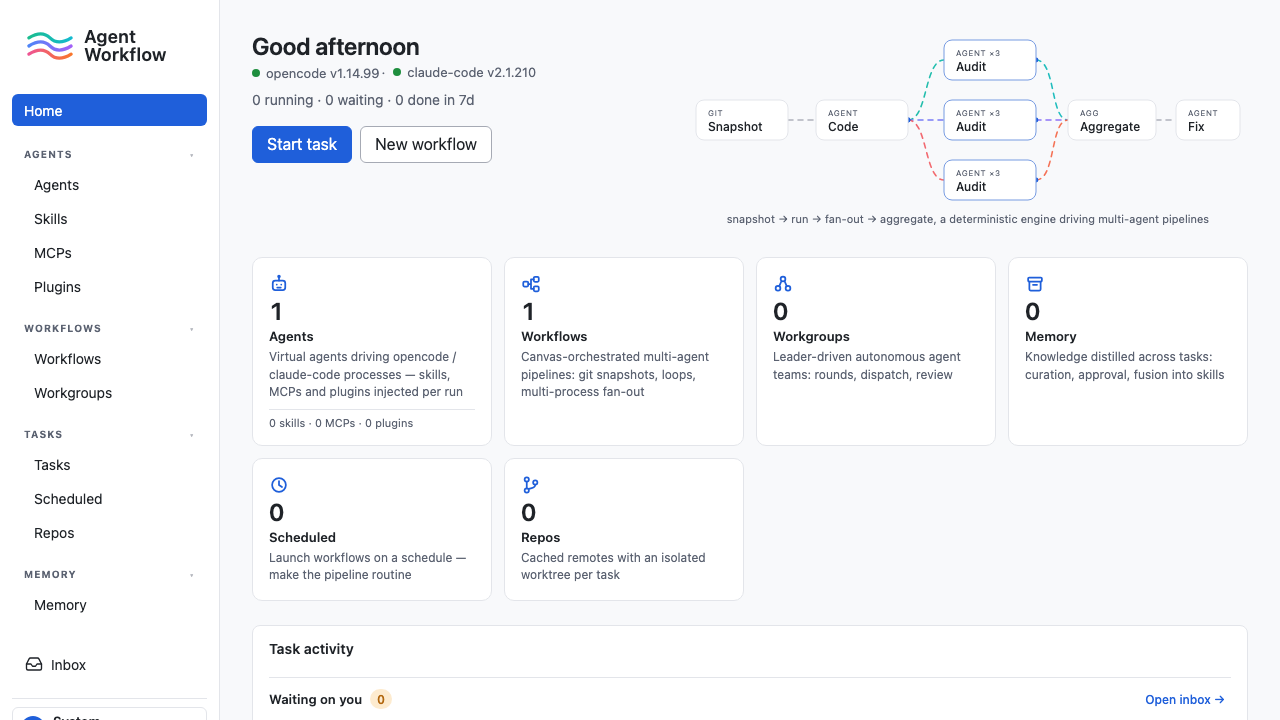
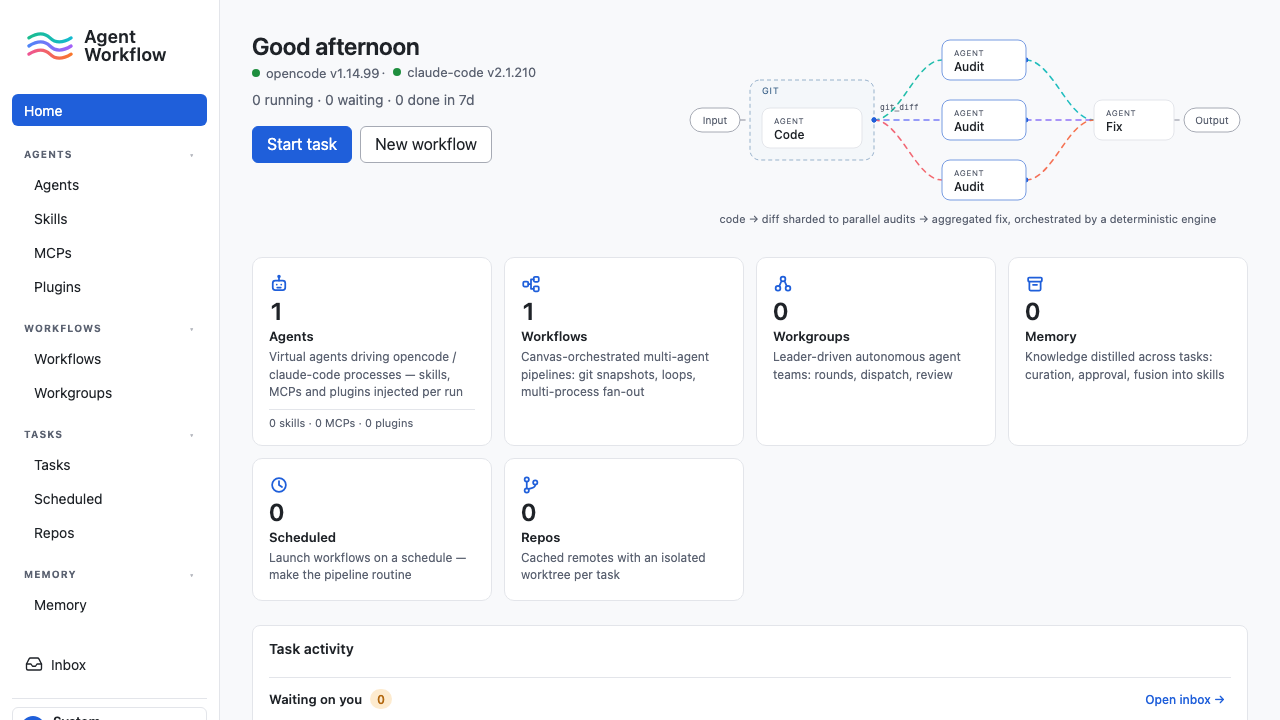
fix(home): RFC-190 验收修订——管线图重画为真实业务流
用户反馈「首页右上角那个图不是一个正常的业务流」，成立：初版把「快照」
「聚合」画成独立业务节点，但两者都是框架机制而非用户会在画布上摆的节点
（git wrapper 前后快照取 diff；多进程审计节点内建扇出+聚合）。

重画为画布同构的业务流（用户择「爆开三实例扇出」案）：
(输入) → ┊GIT wrapper[编码]┊ —git_diff→ [审计]×3 → 扇入直进[修复] → (输出)
- GIT wrapper 用编辑器同款蓝虚线容器色系（.canvas-node--wrapper-group--git），
  静态不参与流动动画（容器是归属不是流）；
- git_diff 作为端口名标注在扇出起点（唯一值得点名的机制——审计消费的产物）；
- 输入/输出为画布 IO 节点微缩药丸；三审计 kind 复归 AGENT（去 ×3 冗余）。

i18n：pipeline.snapshot/aggregate 删除，新增 input/output，caption 改述
「编码取 diff → 分片并行审计 → 聚合修复」机制语义（三处同改）。
测试：pipeline-hero 拓扑用例重写——锁伪节点不得复活（快照/聚合断言
false）+ wrapper 框/GIT 标签/git_diff 端口/IO 药丸/三 live 审计全要素。
基线：homepage/onboarding darwin 已随刷；linux 待 workflow_dispatch
artifact 回填（Option B，后续提交）。
文档：design.md §3.3 修订 v3、proposal G2、STATE.md 勘误段。

diff --git a/packages/frontend/src/components/home/PipelineHero.tsx b/packages/frontend/src/components/home/PipelineHero.tsx
@@ -1,16 +1,24 @@
-// RFC-190 — the homepage hero's animated mini-pipeline: the platform's core
-// abstraction (git snapshot → code → audit ×3 fan-out → aggregate → fix)
-// drawn as a small workflow canvas. Pure hand-written SVG + CSS animation
-// (zero dependencies); node chrome echoes `.canvas-node` (panel bg / 1px
-// border / 8px radius / uppercase kind label) so the hero visually rhymes
-// with the workflow editor.
+// RFC-190 — the homepage hero's animated mini-pipeline, drawn as a REAL
+// business flow (acceptance revision: the first cut showed "snapshot" and
+// "aggregate" as standalone steps, but both are framework mechanics, not
+// business nodes — the git wrapper CONTAINS the coder and yields git_diff
+// from its before/after snapshots, and a multi-process node aggregates its
+// own fan-out internally):
 //
-// - Fan-out edges carry the three brand gradients (stop values copied from
-//   the sidebar logo, __root.tsx). Gradient ids are `aw-pipe-*` — the
+//   [input] → ┊GIT wrapper [code]┊ —git_diff→ audit ×3 (exploded fan-out)
+//           → fix (fan-in lands directly; aggregation is implicit) → [output]
+//
+// Pure hand-written SVG + CSS animation (zero dependencies); node chrome
+// echoes `.canvas-node`, the GIT wrapper echoes the editor's dashed blue
+// `.canvas-node--wrapper-group--git` container, IO pills echo the canvas IO
+// nodes — the hero rhymes with what users actually build on the canvas.
+//
+// - Fan edges carry the three brand gradients (stop values copied from the
+//   sidebar logo, __root.tsx). Gradient ids are `aw-pipe-*` — the
 //   `aw-stream-*` ids are source-locked to __root.tsx and duplicating DOM
 //   ids would be invalid (design.md §1).
-// - All motion lives in styles.css under `.pipeline-hero__edge` /
-//   `__dot` / `__node--live` and is disabled per-selector under
+// - All motion lives in styles.css under `.pipeline-hero__edge` / `__dot` /
+//   `__node--live` and is disabled per-selector under
 //   `prefers-reduced-motion: reduce` (repo idiom).
 // - The SVG is decorative: aria-hidden, with the wrapping <Link> carrying
 //   the accessible name (a11y gate on `/`).
@@ -26,21 +34,21 @@ const PIPE_GRADIENTS = [
   { id: 'aw-pipe-c', from: '#ec4899', to: '#f97316' },
 ] as const
 
-// Edge paths (SVG user units). Fan-out (code → audits) and fan-in
-// (audits → aggregate) reuse these for both the stroke and the dot motion.
+// Edge paths (SVG user units). The fan-out (wrapper's git_diff → audits) and
+// fan-in (audits → fix) reuse these for both the stroke and the dot motion.
 const EDGE_TRUNK: string[] = [
-  'M 100 88 H 128', // snapshot → code
-  'M 468 88 H 488', // aggregate → fix
+  'M 52 88 H 62', // input → git wrapper
+  'M 486 88 H 496', // fix → output
 ]
 const EDGE_FAN_OUT = [
-  'M 220 88 C 240 88, 236 28, 256 28',
-  'M 220 88 H 256',
-  'M 220 88 C 240 88, 236 148, 256 148',
+  'M 186 88 C 212 88, 228 28, 254 28',
+  'M 186 88 H 254',
+  'M 186 88 C 212 88, 228 148, 254 148',
 ] as const
 const EDGE_FAN_IN = [
-  'M 348 28 C 368 28, 362 88, 380 88',
-  'M 348 88 H 380',
-  'M 348 148 C 368 148, 362 88, 380 88',
+  'M 338 28 C 364 28, 380 88, 406 88',
+  'M 338 88 H 406',
+  'M 338 148 C 364 148, 380 88, 406 88',
 ] as const
 
 interface NodeSpec {
@@ -73,16 +81,26 @@ function PipelineNode({ node }: { node: NodeSpec }): ReactElement {
   )
 }
 
+/** Small IO pill — the canvas input/output node, miniaturized. */
+function IoPill({ x, w, label }: { x: number; w: number; label: string }): ReactElement {
+  return (
+    <g className="pipeline-hero__io">
+      <rect className="pipeline-hero__io-box" x={x} y={76} width={w} height={24} rx={12} />
+      <text className="pipeline-hero__io-text" x={x + w / 2} y={92} textAnchor="middle">
+        {label}
+      </text>
+    </g>
+  )
+}
+
 export function PipelineHero(): ReactElement {
   const { t } = useTranslation()
-  const nodes: NodeSpec[] = [
-    { x: 8, y: 68, w: 92, kind: 'GIT', label: t('home.pipeline.snapshot') },
-    { x: 128, y: 68, w: 92, kind: 'AGENT', label: t('home.pipeline.code') },
-    { x: 256, y: 8, w: 92, kind: 'AGENT ×3', label: t('home.pipeline.audit'), live: true },
-    { x: 256, y: 68, w: 92, kind: 'AGENT ×3', label: t('home.pipeline.audit'), live: true },
-    { x: 256, y: 128, w: 92, kind: 'AGENT ×3', label: t('home.pipeline.audit'), live: true },
-    { x: 380, y: 68, w: 88, kind: 'AGG', label: t('home.pipeline.aggregate') },
-    { x: 488, y: 68, w: 64, kind: 'AGENT', label: t('home.pipeline.fix') },
+  const agentNodes: NodeSpec[] = [
+    { x: 74, y: 76, w: 100, kind: 'AGENT', label: t('home.pipeline.code') },
+    { x: 254, y: 8, w: 84, kind: 'AGENT', label: t('home.pipeline.audit'), live: true },
+    { x: 254, y: 68, w: 84, kind: 'AGENT', label: t('home.pipeline.audit'), live: true },
+    { x: 254, y: 128, w: 84, kind: 'AGENT', label: t('home.pipeline.audit'), live: true },
+    { x: 406, y: 68, w: 80, kind: 'AGENT', label: t('home.pipeline.fix') },
   ]
   return (
     <Link
@@ -113,6 +131,19 @@ export function PipelineHero(): ReactElement {
             </linearGradient>
           ))}
         </defs>
+        {/* GIT wrapper container around the coder — before/after snapshots
+            live HERE (the editor's dashed blue wrapper-group, miniaturized). */}
+        <rect
+          className="pipeline-hero__wrapper-box"
+          x={62}
+          y={48}
+          width={124}
+          height={80}
+          rx={10}
+        />
+        <text className="pipeline-hero__wrapper-label" x={74} y={62}>
+          GIT
+        </text>
         {EDGE_TRUNK.map((d) => (
           <path key={d} className="pipeline-hero__edge pipeline-hero__edge--trunk" d={d} />
         ))}
@@ -132,6 +163,11 @@ export function PipelineHero(): ReactElement {
             stroke={`url(#${PIPE_GRADIENTS[i]!.id})`}
           />
         ))}
+        {/* The wrapper's output port name — the one piece of mechanism worth
+            naming, because it IS the artifact the audits consume. */}
+        <text className="pipeline-hero__edge-label" x={192} y={78}>
+          git_diff
+        </text>
         {[...EDGE_FAN_OUT, ...EDGE_FAN_IN].map((d) => (
           <circle
             key={`dot-${d}`}
@@ -140,7 +176,9 @@ export function PipelineHero(): ReactElement {
             style={{ offsetPath: `path('${d}')` }}
           />
         ))}
-        {nodes.map((node, i) => (
+        <IoPill x={2} w={50} label={t('home.pipeline.input')} />
+        <IoPill x={496} w={56} label={t('home.pipeline.output')} />
+        {agentNodes.map((node, i) => (
           <PipelineNode key={i} node={node} />
         ))}
       </svg>

diff --git a/packages/frontend/src/styles.css b/packages/frontend/src/styles.css
@@ -2091,6 +2091,43 @@ code {
   font-family: inherit;
 }
 
+/* GIT wrapper container — same hue family as the editor's
+ * .canvas-node--wrapper-group--git (dashed blue, tinted fill). Static:
+ * containers are membership, not flow, so no marching animation. */
+.pipeline-hero__wrapper-box {
+  fill: color-mix(in srgb, #4a78a6 6%, var(--panel));
+  stroke: color-mix(in srgb, #4a78a6 55%, transparent);
+  stroke-width: 1;
+  stroke-dasharray: 4 3;
+}
+
+.pipeline-hero__wrapper-label {
+  fill: color-mix(in srgb, #4a78a6 80%, var(--text));
+  font-size: 9px;
+  letter-spacing: 0.08em;
+  font-family: inherit;
+}
+
+/* IO pills — the canvas input/output nodes, miniaturized. */
+.pipeline-hero__io-box {
+  fill: var(--panel);
+  stroke: var(--border-strong);
+  stroke-width: 1;
+}
+
+.pipeline-hero__io-text {
+  fill: var(--muted);
+  font-size: 10px;
+  font-family: inherit;
+}
+
+/* Port-name tag on the fan-out (the wrapper's git_diff output). */
+.pipeline-hero__edge-label {
+  fill: var(--muted);
+  font-size: 8px;
+  font-family: ui-monospace, SFMono-Regular, Menlo, monospace;
+}
+
 .pipeline-hero__edge {
   fill: none;
   stroke-width: 1.6;

diff --git a/packages/frontend/tests/pipeline-hero.test.tsx b/packages/frontend/tests/pipeline-hero.test.tsx
@@ -67,13 +67,27 @@ describe('RFC-190 PipelineHero', () => {
     expect(html).not.toContain('aw-stream-')
   })
 
-  test('topology includes the aggregate stage between audits and fix', () => {
+  test('topology is a REAL business flow: IO pills + GIT wrapper + fan-in straight into fix', () => {
+    // Acceptance revision (user: "右上角那个图不是一个正常的业务流"):
+    // snapshot/aggregate are framework MECHANICS, not business nodes — the
+    // git wrapper contains the coder and yields git_diff; the multi-process
+    // audit aggregates internally. This test locks the corrected shape so
+    // the pseudo-nodes can't sneak back in.
     const { container } = render(<PipelineHero />)
     const labels = Array.from(container.querySelectorAll('text')).map((t) => t.textContent ?? '')
     // zh default locale in tests; accept either bundle to stay locale-proof.
-    expect(labels.some((l) => /聚合|Aggregate/.test(l))).toBe(true)
+    expect(labels.some((l) => /快照|Snapshot/.test(l))).toBe(false)
+    expect(labels.some((l) => /聚合|Aggregate/.test(l))).toBe(false)
+    expect(labels.some((l) => /输入|Input/.test(l))).toBe(true)
+    expect(labels.some((l) => /输出|Output/.test(l))).toBe(true)
+    expect(labels.some((l) => /编码|Code/.test(l))).toBe(true)
     expect(labels.some((l) => /修复|Fix/.test(l))).toBe(true)
-    // three audit nodes (the fan-out), each marked live/breathing
+    // the GIT wrapper container (editor's dashed wrapper-group, miniaturized)
+    expect(container.querySelector('.pipeline-hero__wrapper-box')).toBeTruthy()
+    expect(labels.some((l) => l === 'GIT')).toBe(true)
+    // the wrapper's output port feeding the fan-out
+    expect(labels.some((l) => l === 'git_diff')).toBe(true)
+    // three exploded audit instances (the fan-out), each live/breathing
     const live = container.querySelectorAll('.pipeline-hero__node--live')
     expect(live.length).toBe(3)
   })

diff --git a/packages/frontend/src/i18n/zh-CN.ts b/packages/frontend/src/i18n/zh-CN.ts
@@ -105,12 +105,15 @@ export interface Resources {
       relativeDayAgo: string
     }
     // RFC-190：能力门户首页——管线 hero / 脉搏行 / 能力卡片 / 任务动态。
+    // 验收修订：管线图按真实业务流重画——快照/聚合是框架机制不是业务节点
+    // （git wrapper 容器取 diff、多进程节点内建聚合），改为输入/输出 IO 节点
+    // + GIT wrapper 框内编码 + 三审计扇入直进修复。
     pipeline: {
-      snapshot: string
+      input: string
       code: string
       audit: string
-      aggregate: string
       fix: string
+      output: string
       caption: string
       open: string
     }
@@ -3085,12 +3088,12 @@ export const zhCN: Resources = {
     },
     // RFC-190：能力门户首页。
     pipeline: {
-      snapshot: '快照',
+      input: '输入',
       code: '编码',
       audit: '审计',
-      aggregate: '聚合',
       fix: '修复',
-      caption: '快照 → 执行 → 扇出 → 聚合，确定性引擎驱动的多代理流水线',
+      output: '输出',
+      caption: '编码取 diff → 分片并行审计 → 聚合修复，确定性引擎全程编排',
       open: '打开工作流列表',
     },
     pulse: {

diff --git a/packages/frontend/src/i18n/en-US.ts b/packages/frontend/src/i18n/en-US.ts
@@ -98,13 +98,13 @@ export const enUS: Resources = {
     },
     // RFC-190: capability-portal homepage.
     pipeline: {
-      snapshot: 'Snapshot',
+      input: 'Input',
       code: 'Code',
       audit: 'Audit',
-      aggregate: 'Aggregate',
       fix: 'Fix',
+      output: 'Output',
       caption:
-        'snapshot → run → fan-out → aggregate, a deterministic engine driving multi-agent pipelines',
+        'code → diff sharded to parallel audits → aggregated fix, orchestrated by a deterministic engine',
       open: 'Open workflows',
     },
     pulse: {

diff --git a/design/RFC-190-homepage-capability-portal/design.md b/design/RFC-190-homepage-capability-portal/design.md
@@ -122,12 +122,12 @@ export const OverviewResponseSchema = z.object({
 ### 3.3 PipelineHero（平台特点视觉）
 
 - `components/home/PipelineHero.tsx`，纯手写 SVG（零依赖），`.pipeline-hero` 命名空间；外层 `<Link to="/workflows" aria-label={t('home.pipeline.open')}>`，`<svg aria-hidden="true">`。
-- 拓扑与平台核心抽象**逐段对齐**（设计门 P1-8；`CLAUDE.md` Code→Audit→Fix：审计结果先聚合再进 fixer；fan-out aggregator 现实见 `scheduler.ts` aggregator 收集 shard 输出）：`[git 快照] → [编码] ⇉ [审计]×3（扇出）→ [聚合] → [修复]`。聚合画为小型汇合节点（kind 标 `AGG`），三条审计边扇入其左侧。
-- 节点视觉呼应画布 `.canvas-node`（`styles.css:4667-4707`：`var(--panel)` 底、`var(--border)` 1px、radius 8、uppercase kind 小标 + 标题），kind 标示 `GIT / AGENT / AGENT ×3 / AGG / AGENT`。
+- 拓扑（**验收修订 v3**，用户反馈「右上角图不是正常业务流」）：初版把「快照」「聚合」画成独立业务节点系语义错误——两者都是框架机制而非用户会摆的节点（git wrapper 前后快照取 diff、多进程节点内建聚合，`CLAUDE.md`/proposal §5.2/§4.5）。修正为真实画布同构的业务流：`(输入) → ┊GIT wrapper[编码]┊ —git_diff→ [审计]×3（爆开三实例扇出，用户择案）→ 扇入直进 [修复] → (输出)`；wrapper 画为编辑器同款蓝虚线容器（`.canvas-node--wrapper-group--git` 色系，静态不参与流动动画），`git_diff` 作为端口名标注在扇出起点（唯一值得点名的机制——它就是审计消费的产物），输入/输出为画布 IO 节点微缩药丸。测试锁死伪节点不得复活（快照/聚合文案断言为 false）。
+- 节点视觉呼应画布 `.canvas-node`（`styles.css:4667-4707`：`var(--panel)` 底、`var(--border)` 1px、radius 8、uppercase kind 小标 + 标题），agent 节点 kind 一律 `AGENT`。
 - 三条扇出边分别用品牌三渐变色（stop 值复制 `__root.tsx:87-119`：`#10b981→#06b6d4`、`#3b82f6→#a855f7`、`#ec4899→#f97316`），渐变 id `aw-pipe-a/b/c`（避免与源级锁的 `aw-stream-*` 撞 id）；干线边用 `var(--border-strong)`。
 - 动画（纯 CSS，三套 selector 单列便于测试锁）：①`.pipeline-hero__edge`：`stroke-dasharray`+`stroke-dashoffset` 匀速行进；②`.pipeline-hero__dot`：光点 `<circle>` 走 CSS `offset-path: path('…')` 循环；③`.pipeline-hero__node--live`：审计组呼吸。**三者均在 `@media (prefers-reduced-motion: reduce)` 内逐 selector `animation: none`**（仓内 idiom：`styles.css:5192-5200`/`5233-5242`；测试锁到 selector 粒度，设计门 P2-3）。
 - 主题：全部用 token（`--panel/--border/--text/--muted/--accent`），`data-theme` 级联自动适配暗色；渐变 stop 为品牌常量、双主题同值（与侧栏 logo 同理）。
-- 节点文字 `<text>` 用 i18n（`home.pipeline.snapshot/code/audit/aggregate/fix`）；SVG 下方一行 caption（`home.pipeline.caption`，muted）。
+- 节点文字 `<text>` 用 i18n（`home.pipeline.input/code/audit/fix/output`；kind 标签 `GIT`/`AGENT` 与端口名 `git_diff` 为代码级标识不入 i18n）；SVG 下方一行 caption（`home.pipeline.caption`，muted，说明「取 diff → 分片并行审计 → 聚合修复」的机制语义）。
 - 响应式：hero 右列 `min-width` 不足（<~900px 容器）时管线换行至问候语下方；`viewBox` 等比缩放。
 - e2e 视觉回归以 `animations:'disabled'` 截图，CSS 动画被冻结，基线稳定。
 

diff --git a/STATE.md b/STATE.md
@@ -6,7 +6,7 @@
 
 ✅ **已完成 RFC（2026-07-15，用户批准方案 A 后当日实现）：[RFC-191 定义资源列表画廊化](design/RFC-191-resource-list-gallery/proposal.md) + [RFC-192 运行记录列手术](design/RFC-192-run-record-list-surgery/proposal.md)**。源自用户「调研工作流/工作组/任务/定时任务列表表现形式」→ 调研报告（现状复现+方案渲染 artifact）→ 拍板方案 A + D2-D5。RFC-191=`da654f32`+折入 `6adff67f`：工作流/工作组卡片画廊（`ResourceGalleryPage`/`GalleryCard` 公共组件、stretched-link、启动深链〔工作组按 `workgroupLaunchReadiness` 门禁〕、删除收敛详情层、`<RelativeTime>`+`useNowTick` 原语、`ResourceNameCell` 退役）；RFC-192=`f168406d`+折入 `da66f080`：任务表状态前置+脉冲/错误折行〔仅 failed〕/`repoCount`·`scheduledTaskId` 接线/耗时列/`limit=500`/三维过滤/整行可点（`shouldRowNavigate` 守卫，修 Cmd-click 双导航），定时任务 Switch 启停/最近触发三合一〔任务链接仅 launched——`recordFailure` 不写 `lastTaskId`〕/连挂 ×N/立即运行两击，repos 时间相对化；顺带修 `.segmented__option` 竖排。两轮 Codex 实现门（5P2 / 2P2+1P3）全折；空态视觉基线零 churn；五门+binary smoke 全绿。
 
-✅ **已完成 RFC（2026-07-15）：[RFC-190 首页能力门户改版](design/RFC-190-homepage-capability-portal/proposal.md)**。用户需求「首页要有平台特点、直观体现平台能力」，四项取向问答对齐（能力门户 / 动态管线 hero / 新增聚合端点 / Onboarding 一起翻新）。落地＝`de632aae`（主体）+ `3458d5bf`（实现门 P2）+ `ed375910`（e2e 适配）：后端 `GET /api/overview`（六 ACL 资源 filterVisibleRows 计数、口径 oracle 锁「==列表行数」逐 actor；tasks 权限真值表 read:all→全量/read:own→mine/皆无→null；可注入时钟 7d 窗口；`countCachedRepos` 避 1+N；`canViewScheduledTask`/`taskVisibilityCondition` 抽单源；contract registry 登记）+ 前端 hero（脉搏行 + PipelineHero 纯 SVG/CSS 管线「快照→编码→审计×3→聚合→修复」，品牌渐变 aw-pipe-*、reduce-motion 逐 selector 关断源级锁）+ 六能力卡（公共 Card 最小扩展 to/search Link 根；记忆卡深链 `/memory?tab=all`〔路由新增 tab validateSearch，保留 focus 透传，清空回落默认——实现门 P2〕）+ TaskFeed 单卡三子分组（全部 RFC-032 testid/顺序/收件箱按钮锁保留）+ Onboarding 翻新（hero+intro 网格，四步/导入锁不动）。设计门 Codex 0P0/9P1/6P2 全折入（处置表 design.md §8：含「旧 homepage 视觉基线实为 Onboarding」读图实锤→e2e visual/a11y 拆两用例、基线归位 darwin+linux〔linux 走 Option B artifact〕）；实现门 Codex 1P1+1P2 全折。多人树交织：i18n/styles.css hunks 随 RFC-191 `da654f32` 混文件入库；`main.spec.ts` happy path 被 RFC-191 画廊化打红（CI ee02c70e），已按卡片标题链接契约适配（`ed375910`，测试性修复）；agents 视觉基线漂移属 RFC-191 留其归属 session。验证：detached worktree 固定 commit 全量后端 5575 pass/前端 3777 全绿 + binary smoke + Chrome 实景 light/dark/窄屏三态自查。
+✅ **已完成 RFC（2026-07-15）：[RFC-190 首页能力门户改版](design/RFC-190-homepage-capability-portal/proposal.md)**。用户需求「首页要有平台特点、直观体现平台能力」，四项取向问答对齐（能力门户 / 动态管线 hero / 新增聚合端点 / Onboarding 一起翻新）。落地＝`de632aae`（主体）+ `3458d5bf`（实现门 P2）+ `ed375910`（e2e 适配）：后端 `GET /api/overview`（六 ACL 资源 filterVisibleRows 计数、口径 oracle 锁「==列表行数」逐 actor；tasks 权限真值表 read:all→全量/read:own→mine/皆无→null；可注入时钟 7d 窗口；`countCachedRepos` 避 1+N；`canViewScheduledTask`/`taskVisibilityCondition` 抽单源；contract registry 登记）+ 前端 hero（脉搏行 + PipelineHero 纯 SVG/CSS 管线「快照→编码→审计×3→聚合→修复」，品牌渐变 aw-pipe-*、reduce-motion 逐 selector 关断源级锁）+ 六能力卡（公共 Card 最小扩展 to/search Link 根；记忆卡深链 `/memory?tab=all`〔路由新增 tab validateSearch，保留 focus 透传，清空回落默认——实现门 P2〕）+ TaskFeed 单卡三子分组（全部 RFC-032 testid/顺序/收件箱按钮锁保留）+ Onboarding 翻新（hero+intro 网格，四步/导入锁不动）。设计门 Codex 0P0/9P1/6P2 全折入（处置表 design.md §8：含「旧 homepage 视觉基线实为 Onboarding」读图实锤→e2e visual/a11y 拆两用例、基线归位 darwin+linux〔linux 走 Option B artifact〕）；实现门 Codex 1P1+1P2 全折。多人树交织：i18n/styles.css hunks 随 RFC-191 `da654f32` 混文件入库；`main.spec.ts` happy path 被 RFC-191 画廊化打红（CI ee02c70e），已按卡片标题链接契约适配（`ed375910`，测试性修复）；agents 视觉基线漂移属 RFC-191 留其归属 session。验证：detached worktree 固定 commit 全量后端 5575 pass/前端 3777 全绿 + binary smoke + Chrome 实景 light/dark/窄屏三态自查。**验收修订 v3（同日，用户反馈「右上角图不是正常业务流」）**：初版管线把快照/聚合画成独立节点系语义错误（皆为框架机制：git wrapper 前后快照取 diff、多进程节点内建聚合）——重画为画布同构业务流 `(输入)→GIT wrapper[编码]—git_diff→审计×3 爆开扇出→扇入直进[修复]→(输出)`（用户择「爆开三实例」案），wrapper 用编辑器同款蓝虚线容器色系、`git_diff` 端口名标注扇出起点、IO 药丸微缩；i18n snapshot/aggregate 键删除换 input/output、caption 改述机制语义；测试锁伪节点不得复活（快照/聚合断言 false）+ wrapper/端口/IO 全要素断言；双基线（darwin 本地 / linux Option B artifact）随刷。
 
 ✅ **已完成 RFC（2026-07-15，用户 /goal「自主完成所有待完成重构」授权实施）：[RFC-188 抽取「一次隔离 agent 执行」单原语](design/RFC-188-isolated-agent-run-primitive/proposal.md) + [RFC-189 轮序数 vs 重试数上游语义拆分](design/RFC-189-round-vs-retry-split/proposal.md)**。源自调度执行架构全面审视（2026-07-14，五路并行深读）：两套引擎「任务生命周期统一、主循环同构（DB 权威 + 纯函数前沿 + Promise.race）、深层基元真共享」，风险集中在装配层——①「iso→冻结→runNode→merge-back」序列 scheduler.ts 手抄 5 处（RFC-184/186/187 历次 bug 皆此层泄漏）→ RFC-188 收编为 `runIsolatedAgent`+`mergeBackAndSettle`，行为保持 + golden 对照 + 源级 allowlist；② `retry_index` 两义（已爆 `d1248df4` 前端误标、轮账本三次排除法打补丁）→ RFC-189 新列 `wg_round` + retry_index 回归纯 attempt + `max()` 单调口径 + CTE backfill 互 oracle。实现顺序 188 → 189，且等 RFC-187 PR-3 余项（并发 session）落定再动 workgroupRunner。实施落地：RFC-188=`b6f43dd6`（T1 逐行核实证伪 monolithic 原稿——主线 iso 跨重试环 D17/shard+agg 双信号量/hook merge 抛错三态处置，收敛四原语 mergeBackAndSettle/createIsoUnderLock/persistIso* 搬家/markMergeFailed，五站点+replay 收编，裸原语只剩 wrapper 路径 allowlist 锁，golden 76 例零改动+全量 5510/0+binary smoke）；RFC-189=migration 0095（journal 94→95，lw 窗口回填互 oracle+wa.round 权威覆盖）+ 三 mint 打戳（协议重试同轮、retryIndex 回归 attempt、gate 行带轮不推进、领养行 stampWgRound 就地补戳）+ countRoundsUsed 混合口径（max+NULL 尾巴）+ wire/抽屉轮标签；实施勘误＝fc 免疫（并发 mint 序数必重复→fc 保持计数制）+ displayRetryForRun 保留（回填旧行 retryIndex 仍旧混合值、两时代行上不可分辨——d1248df4 不复活）。设计门（Codex rescue 作业中途蒸发，按 stall-salvage 备忘抢救）发现与实现独立折入项逐项一致、无未处理项。同批已直落（本 session，RFC-187 分工内）：T5a fan-out 逐路径救回（`buildSalvageTree`/`salvagedPaths` + human-replay P1-9 契约修复 + 真子进程 e2e `rfc187-fanout-salvage-e2e`）、T6 TRAP-1 启动护栏（readiness `warnings` advisory 层 + banner + i18n）、失败横幅跳转按钮工作组落空修复（`canOfferFailedJump`，`fcd6e34d`）、clarify-forbidden 结构化路由（lateSuppress 补 `failureCode`，删 startsWith）、重试预算四点单源（`DEFAULT_PROTOCOL_RETRY_BUDGET`）。
 

diff --git a/design/RFC-190-homepage-capability-portal/proposal.md b/design/RFC-190-homepage-capability-portal/proposal.md
@@ -15,7 +15,7 @@
 ## 2、目标
 
 - **G1 能力门户形态**：首页主体改为**能力卡片矩阵**——代理（含技能 / MCP / 插件子计数）、工作流、工作组、记忆、定时任务、仓库六张卡，每张含实时计数 + 一句能力描述 + 点击跳转对应列表页，构成平台能力地图。
-- **G2 动态管线 hero**：顶部 hero 用纯 SVG/CSS 动画渲染一幅迷你工作流管线（git 快照 → 编码 → 审计 ×3 扇出 → **聚合** → 修复，与平台真实 Code→Audit→Fix 数据流一致：审计产物先聚合再进修复），连线上有流动光点、节点微呼吸——把平台核心抽象「record → run → fan-out → aggregate」直观画在首页上。保留问候语、运行时状态行与「启动任务」主行动。
+- **G2 动态管线 hero**：顶部 hero 用纯 SVG/CSS 动画渲染一幅迷你工作流管线（验收修订 v3：`(输入) → GIT wrapper[编码] —git_diff→ 审计×3 扇出 → 修复 → (输出)`——与真实画布同构的业务流：快照/聚合是框架机制不画成节点，git wrapper 画为虚线容器、聚合由多进程节点内建），连线上有流动光点、节点微呼吸——把平台核心抽象「record → run → fan-out → aggregate」直观画在首页上。保留问候语、运行时状态行与「启动任务」主行动。
 - **G3 任务动态单列**：现有三个任务区合并为一个「任务动态」区块（等你处理优先置顶、运行中次之、最近完成殿后），压缩纵向占位，把首屏让给能力表达；行为与数据口径不变。
 - **G4 聚合取数**：后端新增 `GET /api/overview`，一次请求返回上述各资源**当前用户可见**的计数与任务 7 天窗口统计（运行中 / 等待人 / 7d 完成 / 7d 失败），口径与各列表页一致（RFC-099 ACL 过滤）。
 - **G5 Onboarding 同步翻新**：首跑引导页套用同款管线 hero 与能力介绍（无计数），首跑第一屏即传达平台能力，与常规首页视觉连续。